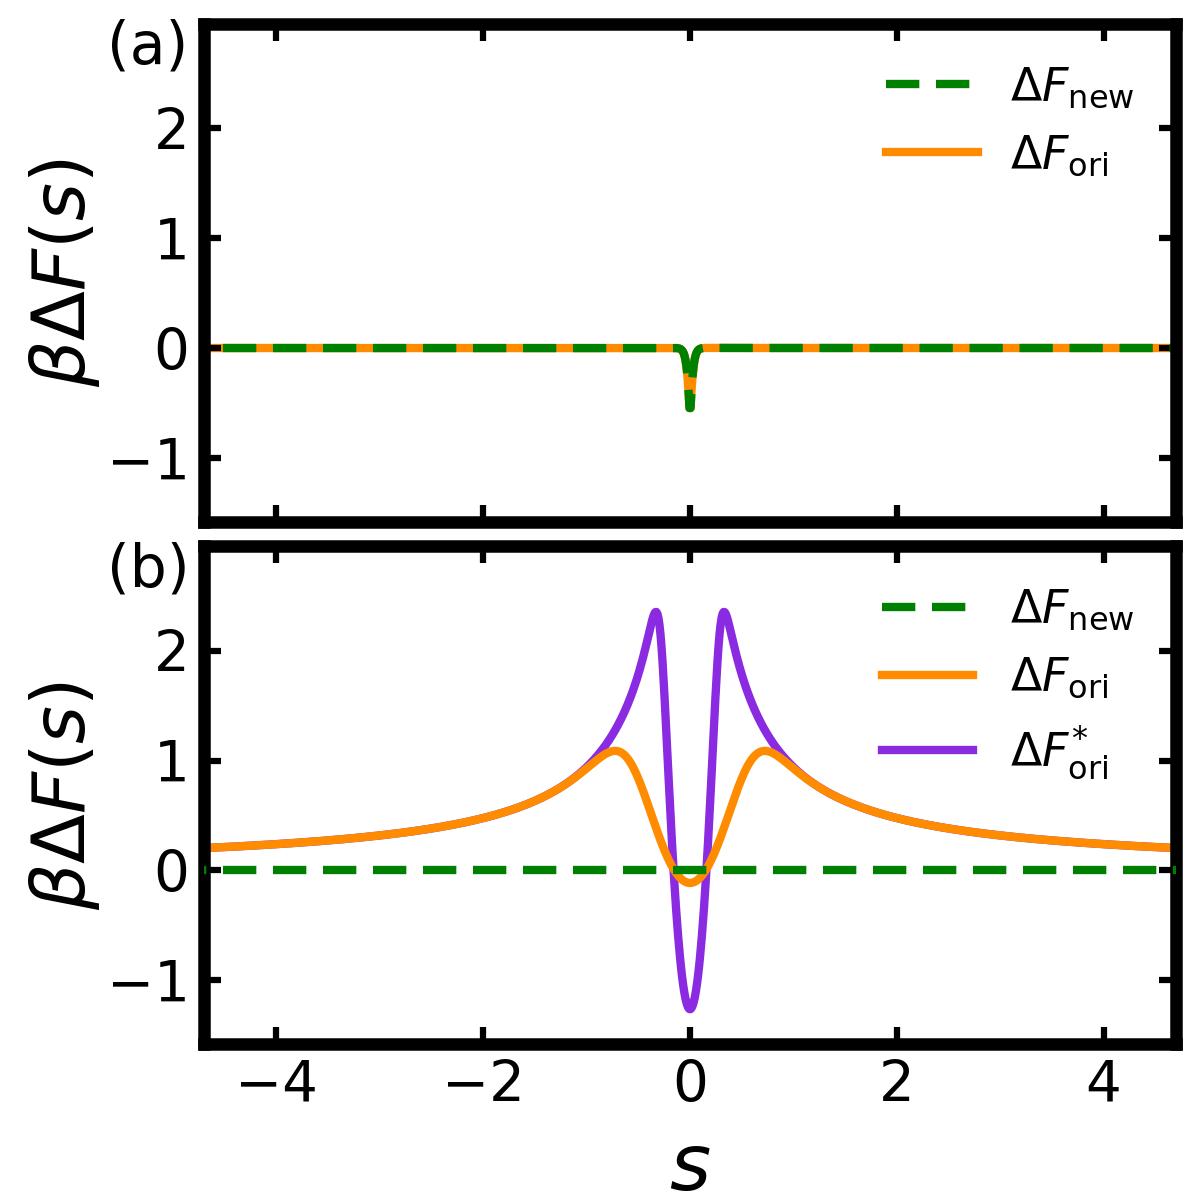
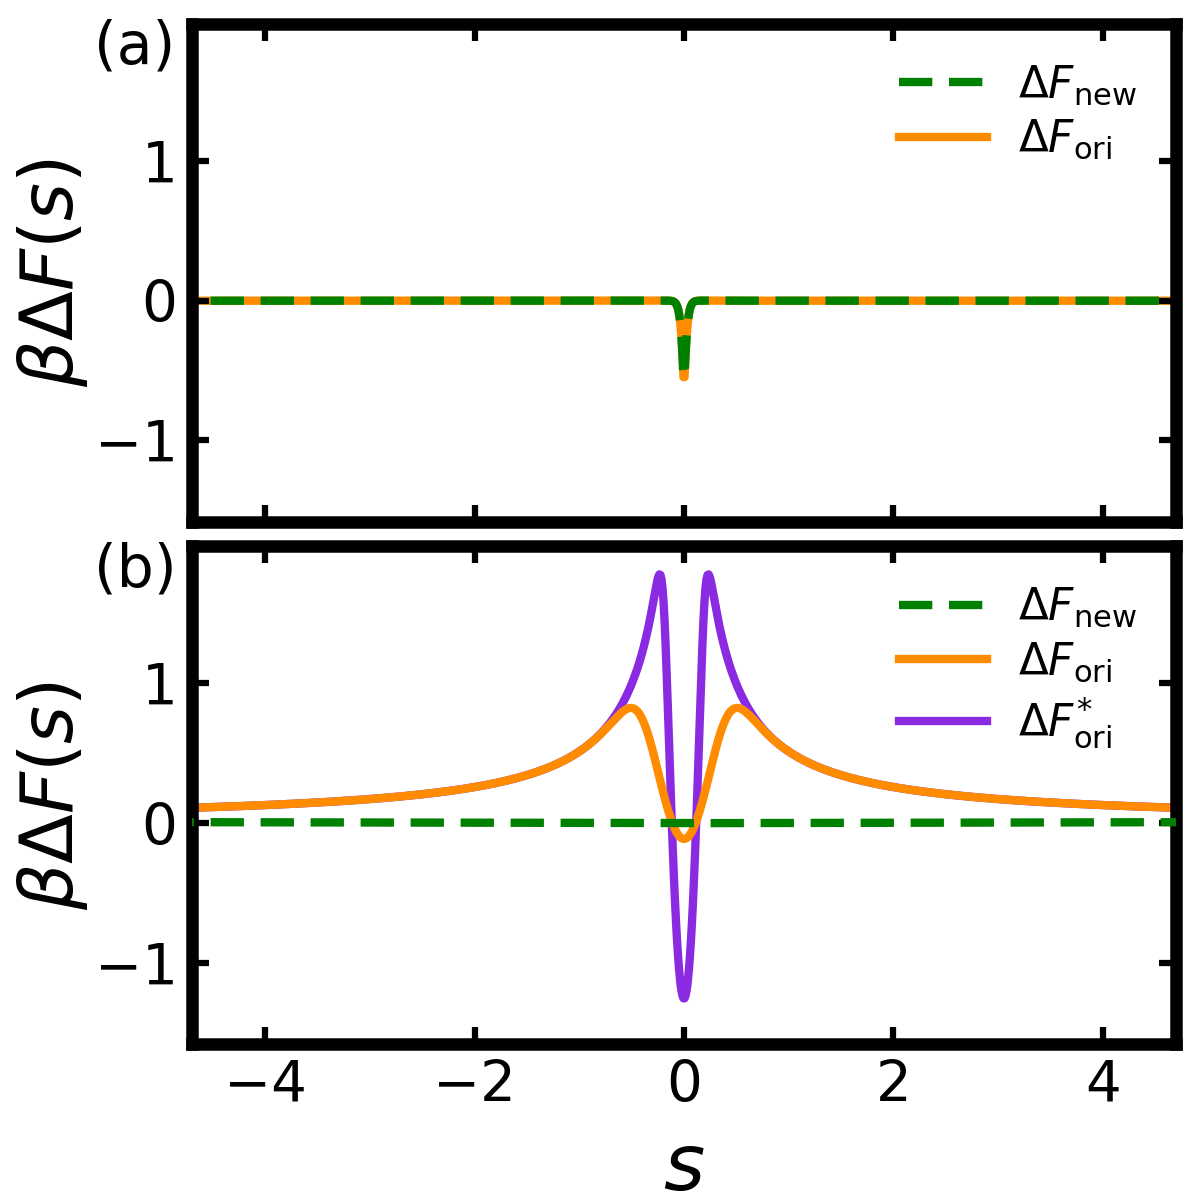
sync 03-14-2026

diff --git a/kcrpmd_figures/figure2.py b/kcrpmd_figures/figure2.py
@@ -30,7 +30,7 @@ eps = 0.0
 
 # Setting coupling constant values for free energy comparison in the two limiting cases
 K0_low = 9.55e-05
-K0_high = 6.46e-03
+K0_high = 4.75e-03
 bq = 0.0
 mq = 5e4
 wq = 5e-4
@@ -81,19 +81,18 @@ ax2.plot(s_ar, beta * (newFs_high - Fgs_high), color='g', label='$\Delta F_{\mat
 ax2.plot(s_ar, beta * (oldFs_high - Fgs_high), color='darkorange', label=r'$\Delta F_{\mathrm{ori}}$', zorder=2)
 ax2.plot(s_ar, beta * (oldFsa1_high - Fgs_high), color='blueviolet', label=r'$\Delta F_{\mathrm{ori}}^{*}$', zorder=1)
 ax1.set_xlim(-4.7,4.7)
-ax1.set_ylim(-1.58, 2.95)
-ax2.set_ylim(-1.58, 2.95)
-ax1.set_yticks([-1, 0, 1, 2])
+ax1.set_ylim(-1.58, 1.98)
+ax2.set_ylim(-1.58, 1.98)
+ax1.set_yticks([-1, 0, 1])
 ax2.set_xticks([-4, -2, 0, 2, 4])
-ax2.set_yticks([-1, 0, 1, 2])
+ax2.set_yticks([-1, 0, 1])
 ax2.set_xlabel(r"$s$")
 ax1.set_ylabel(r"$\beta\Delta F(s)$", labelpad=1, fontsize = 17.5)
 ax2.set_ylabel(r"$\beta\Delta F(s)$", labelpad=1, fontsize = 17.5)
-ax1.legend(fontsize=11, loc='upper right', handletextpad=0.7)
-ax2.legend(fontsize=10, loc='upper right', handletextpad=0.4)
-plt.legend()
+ax1.legend(fontsize=10.5, loc='upper right', handletextpad=0.7, labelspacing=0.25)
+ax2.legend(fontsize=10.5, loc='upper right', handletextpad=0.7, labelspacing=0.25)
 
-plt.subplots_adjust(hspace=0.05, left=0.17, right=0.98, top=0.98, bottom=0.13)
+plt.subplots_adjust(hspace=0.05, left=0.16, right=0.98, top=0.98, bottom=0.13)
 plt.savefig('fig2.png')
 #plt.show()
 
